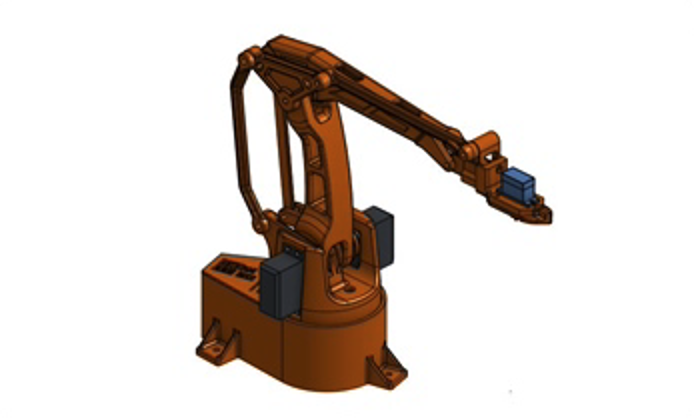
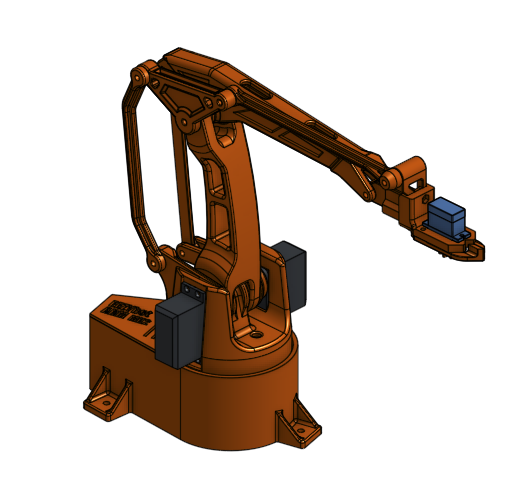
getting better resolution image.

Changed region(s): [[0.1512, 0.0622, 0.9376, 0.9641]]

diff --git a/README.md b/README.md
@@ -25,5 +25,5 @@ ReactJS UI to control an EEZYbotARM MK2 using a Raspberry PI Pico Wifi using Nod
 ## Attributions
 Big thanks to Carlo Franciscone AKA [daGHIZmo](https://www.thingiverse.com/daghizmo/designs) for uploading designs to thingiverse for others to learn about robotics!
 - image taken from:
-  - https://www.instructables.com/EEZYbotARM-Mk2-3D-Printed-Robot/
-  - https://content.instructables.com/FJP/YO0H/J16OYX2O/FJPYO0HJ16OYX2O.jpg?auto=webp&frame=1&fit=bounds&md=00e256016a3446838f9883d7b75275ed
+  - https://www.thingiverse.com/thing:1454048
+  - https://cdn.thingiverse.com/assets/2e/1f/a3/f4/61/eezybotarm_mk2_onshape.png
